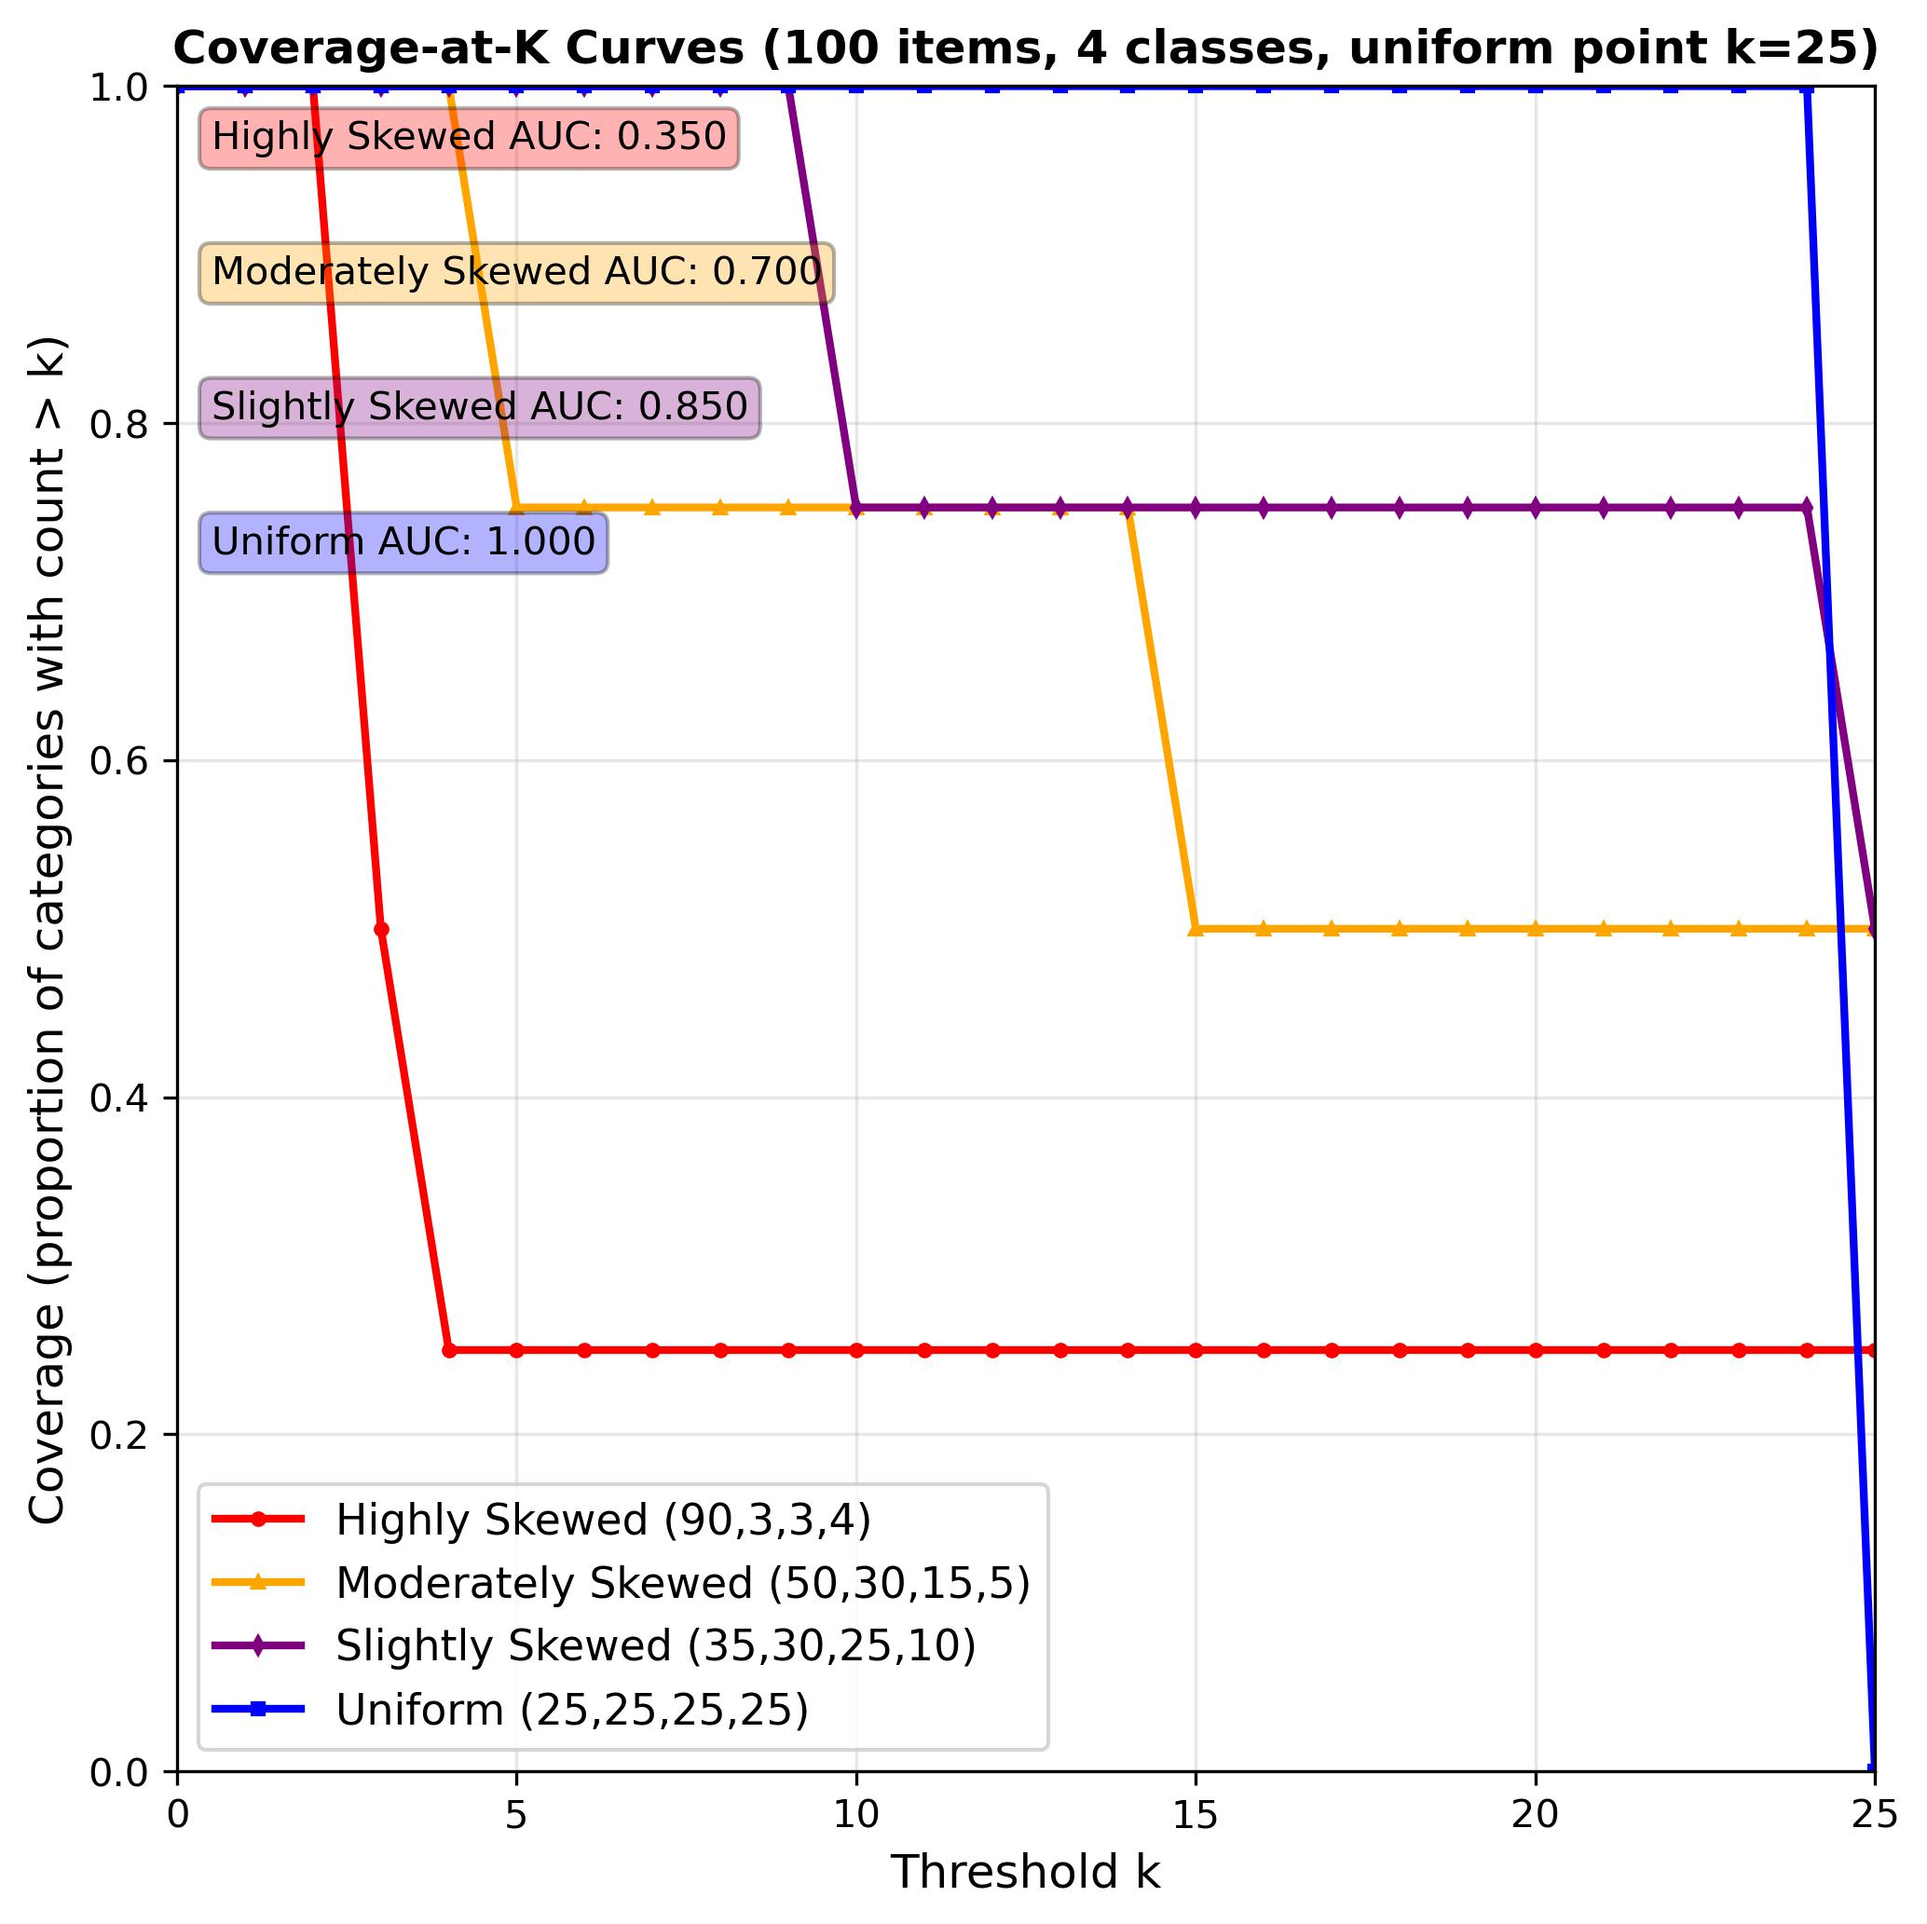
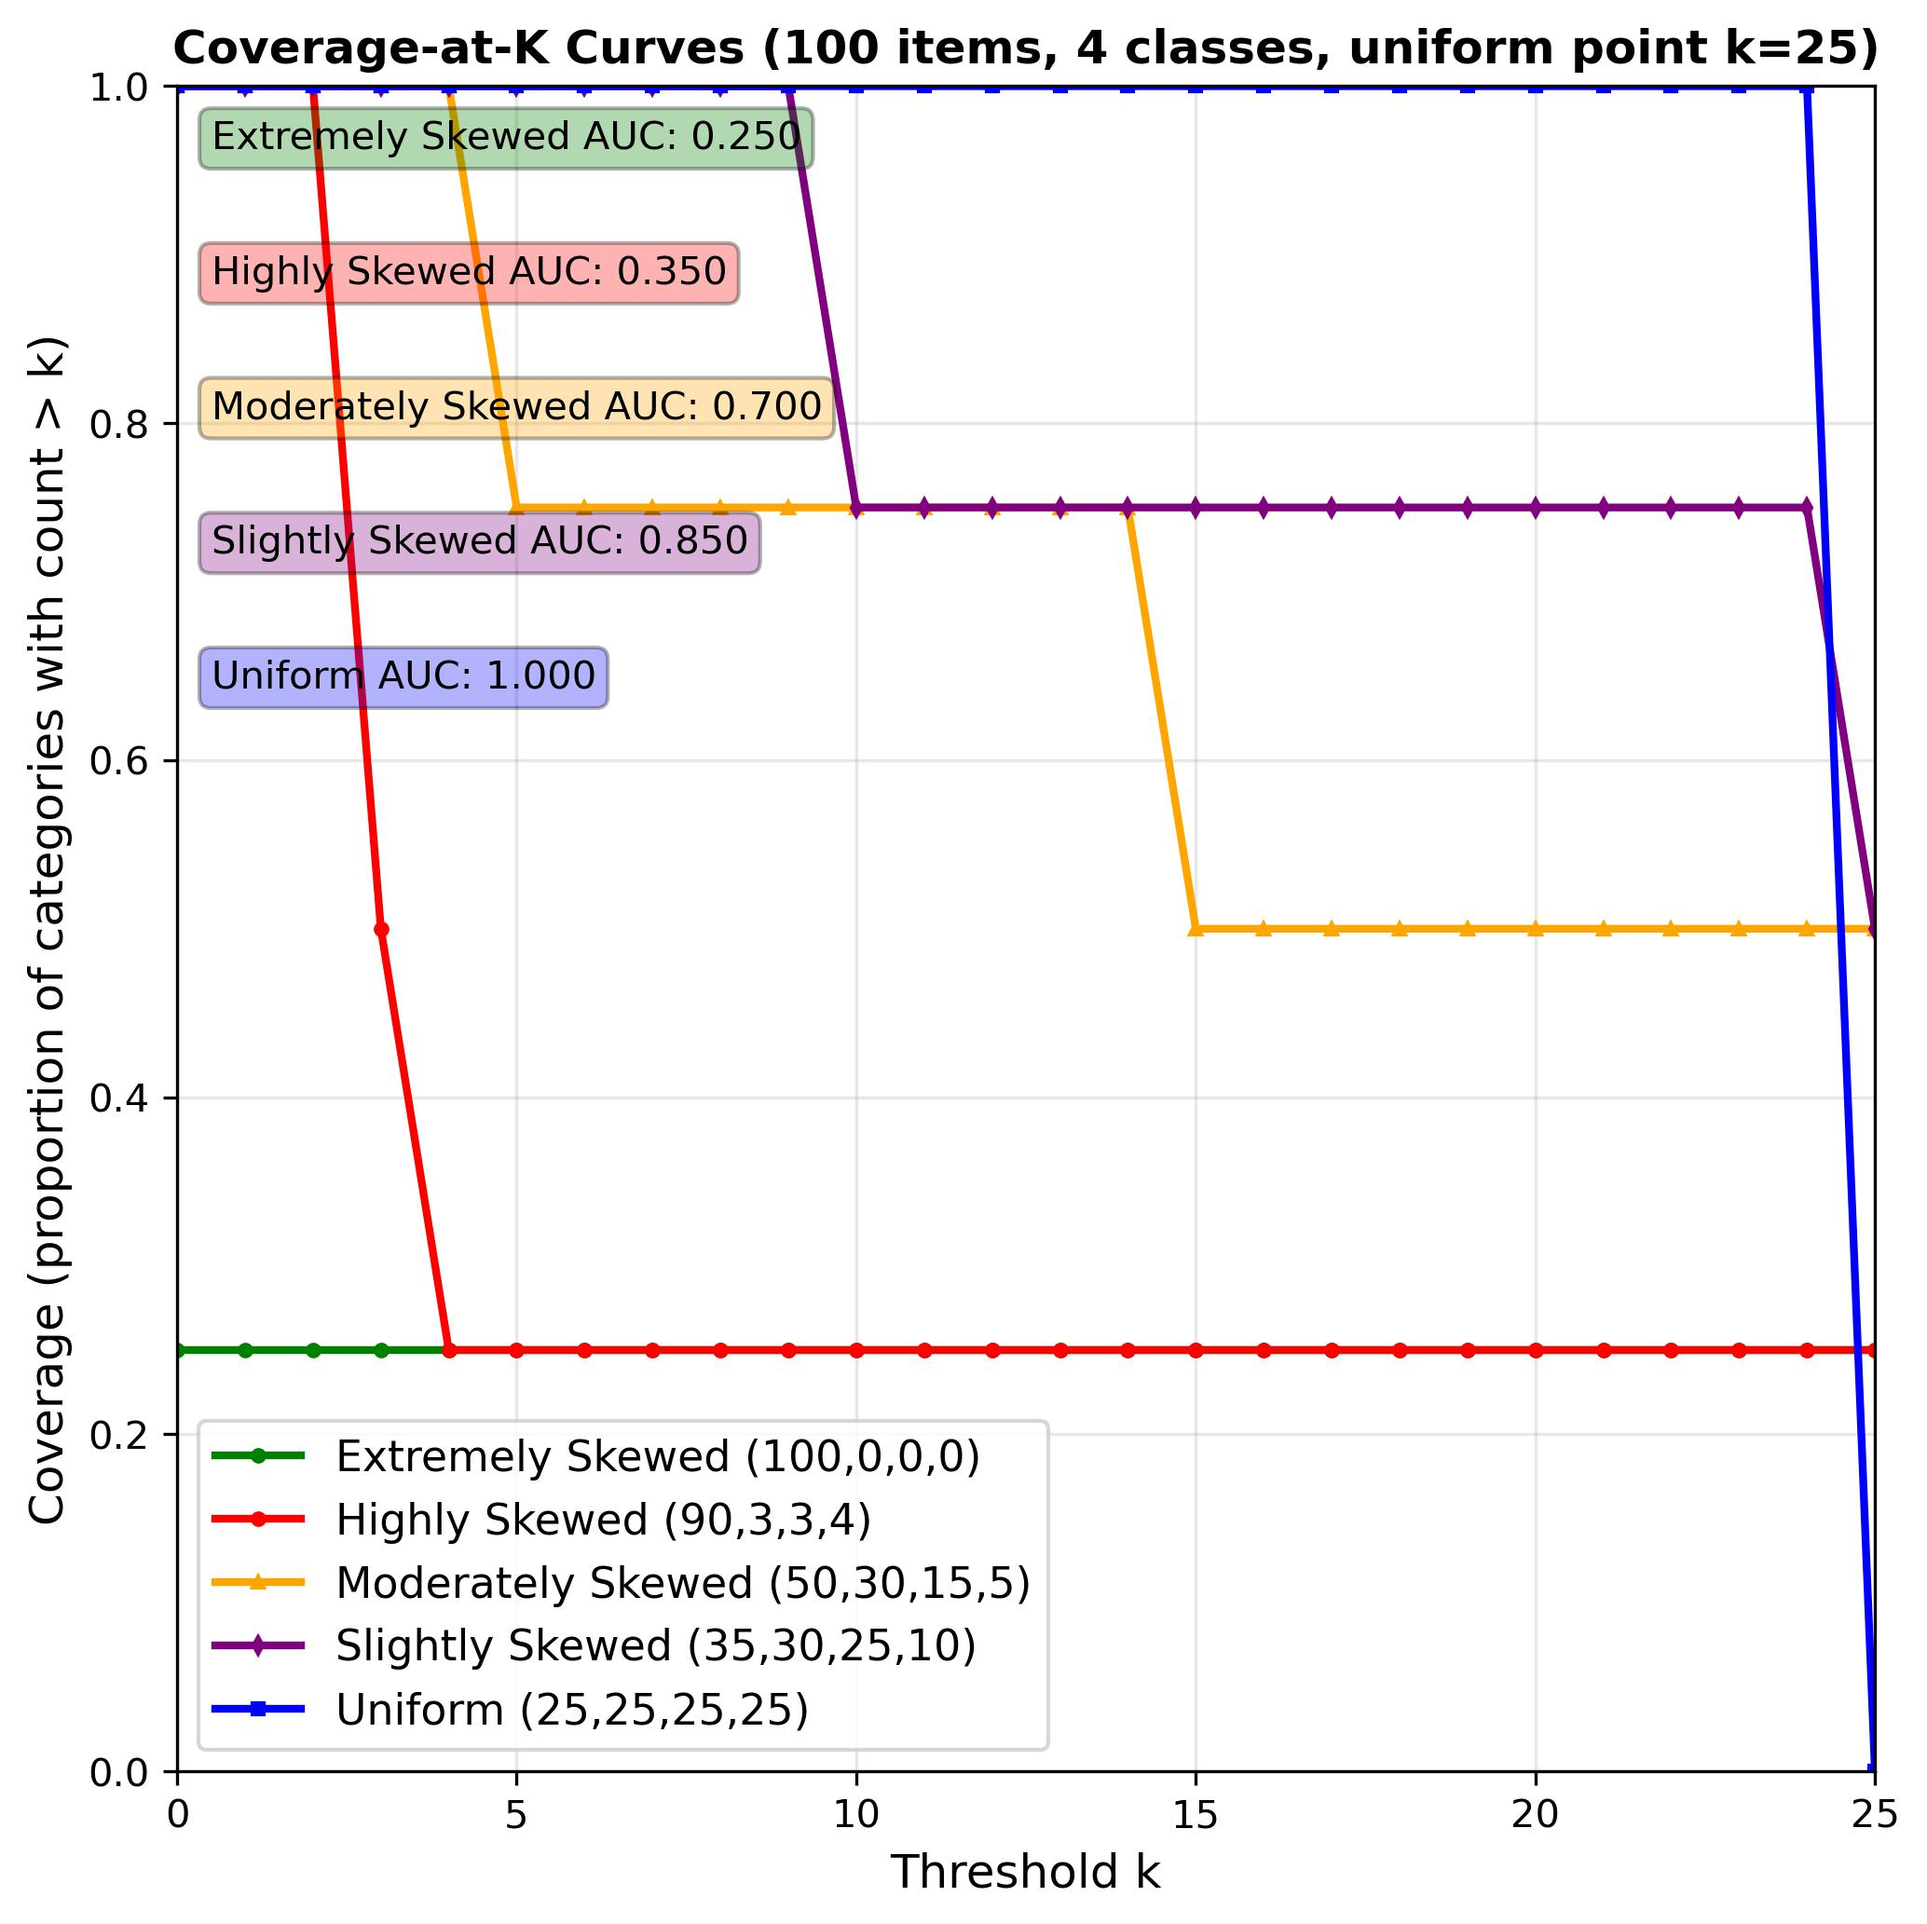
fixed the inequality

diff --git a/example_cq.py b/example_cq.py
@@ -35,11 +35,12 @@ def generate_coverage_curve(probs):
     return all_q_values, all_coverage_values
 
 
-def plot_coverage_at_q(probs_skewed, probs_skewed2, probs_skewed3, probs_uniform):
+def plot_coverage_at_q(probs_extreme, probs_skewed, probs_skewed2, probs_skewed3, probs_uniform):
     """
     Create a visualization comparing coverage-at-q curves for different distributions.
     """
     # Generate curve data
+    q_extreme, coverage_extreme = generate_coverage_curve(probs_extreme)
     q_skewed, coverage_skewed = generate_coverage_curve(probs_skewed)
     q_skewed2, coverage_skewed2 = generate_coverage_curve(probs_skewed2)
     q_skewed3, coverage_skewed3 = generate_coverage_curve(probs_skewed3)
@@ -49,6 +50,7 @@ def plot_coverage_at_q(probs_skewed, probs_skewed2, probs_skewed3, probs_uniform
     plt.figure(figsize=(7, 7))
     
     # Plot all curves
+    plt.plot(q_extreme, coverage_extreme, 'g-', linewidth=2, label='Extremely Skewed (100,0,0,0)', marker='o', markersize=3)
     plt.plot(q_skewed, coverage_skewed, 'r-', linewidth=2, label='Highly Skewed (90,3,3,4)', marker='o', markersize=3)
     plt.plot(q_skewed2, coverage_skewed2, 'orange', linewidth=2, label='Moderately Skewed (50,30,15,5)', marker='^', markersize=3)
     plt.plot(q_skewed3, coverage_skewed3, 'purple', linewidth=2, label='Slightly Skewed (35,30,25,10)', marker='d', markersize=3)
@@ -65,19 +67,22 @@ def plot_coverage_at_q(probs_skewed, probs_skewed2, probs_skewed3, probs_uniform
     plt.xlim(0, 1.0)
     plt.ylim(0, 1.0)
     
-    # Add AUC-C(Q) values as text
-    dfu_skewed = uniform_divergence_score(probs_skewed)
-    dfu_skewed2 = uniform_divergence_score(probs_skewed2)
-    dfu_skewed3 = uniform_divergence_score(probs_skewed3)
-    dfu_uniform = uniform_divergence_score(probs_uniform)
+    # Add AUC-C@Q values as text
+    dfu_extreme = 1.0-uniform_divergence_score(probs_extreme)
+    dfu_skewed = 1.0-uniform_divergence_score(probs_skewed)
+    dfu_skewed2 = 1.0-uniform_divergence_score(probs_skewed2)
+    dfu_skewed3 = 1.0-uniform_divergence_score(probs_skewed3)
+    dfu_uniform = 1.0-uniform_divergence_score(probs_uniform)
     
-    plt.text(0.02, 0.98, f'Highly Skewed UDS: {dfu_skewed:.3f}', transform=plt.gca().transAxes, 
+    plt.text(0.02, 0.98, f'Extremely Skewed UCS: {dfu_extreme:.3f}', transform=plt.gca().transAxes, 
+             verticalalignment='top', bbox=dict(boxstyle='round', facecolor='green', alpha=0.3))
+    plt.text(0.02, 0.90, f'Highly Skewed UCS: {dfu_skewed:.3f}', transform=plt.gca().transAxes, 
              verticalalignment='top', bbox=dict(boxstyle='round', facecolor='red', alpha=0.3))
-    plt.text(0.02, 0.90, f'Moderately Skewed UDS: {dfu_skewed2:.3f}', transform=plt.gca().transAxes, 
+    plt.text(0.02, 0.82, f'Moderately Skewed UCS: {dfu_skewed2:.3f}', transform=plt.gca().transAxes, 
              verticalalignment='top', bbox=dict(boxstyle='round', facecolor='orange', alpha=0.3))
-    plt.text(0.02, 0.82, f'Slightly Skewed UDS: {dfu_skewed3:.3f}', transform=plt.gca().transAxes, 
+    plt.text(0.02, 0.74, f'Slightly Skewed UCS: {dfu_skewed3:.3f}', transform=plt.gca().transAxes, 
              verticalalignment='top', bbox=dict(boxstyle='round', facecolor='purple', alpha=0.3))
-    plt.text(0.02, 0.74, f'Uniform UDS: {dfu_uniform:.3f}', transform=plt.gca().transAxes, 
+    plt.text(0.02, 0.66, f'Uniform UCS: {dfu_uniform:.3f}', transform=plt.gca().transAxes, 
              verticalalignment='top', bbox=dict(boxstyle='round', facecolor='blue', alpha=0.3))
     
     plt.gca().set_aspect('equal', adjustable='box')
@@ -90,13 +95,17 @@ def plot_coverage_at_q(probs_skewed, probs_skewed2, probs_skewed3, probs_uniform
 if __name__ == "__main__":
     # Example Usage:
     # Different types of skewed distributions (100 items, 4 classes)
+    counts_extreme = Counter({'a': 100, 'b': 0, 'c': 0, 'd': 0})      # Highly skewed
     counts_skewed = Counter({'a': 90, 'b': 3, 'c': 3, 'd': 4})      # Highly skewed
     counts_skewed2 = Counter({'a': 50, 'b': 30, 'c': 15, 'd': 5})   # Moderately skewed
     counts_skewed3 = Counter({'a': 35, 'b': 30, 'c': 25, 'd': 10})  # Slightly skewed
     # Perfect uniform distribution (100 items, 4 classes)
     counts_uniform = Counter({'a': 25, 'b': 25, 'c': 25, 'd': 25})
 
-    # Convert counts to probabilities for AUC-C(Q)
+    # Convert counts to probabilities for AUC-C@Q
+    total_extreme = sum(counts_extreme.values())
+    probs_extreme = {k: v / total_extreme for k, v in counts_extreme.items()}
+
     total_skewed = sum(counts_skewed.values())
     probs_skewed = {k: v / total_skewed for k, v in counts_skewed.items()}
 
@@ -109,22 +118,25 @@ if __name__ == "__main__":
     total_uniform = sum(counts_uniform.values())
     probs_uniform = {k: v / total_uniform for k, v in counts_uniform.items()}
 
+    print(f"--- Extremely Skewed Distribution (Total Items: {sum(counts_extreme.values())}) ---")
+    print(f"C(0): {coverage_at_q(counts_extreme, 0):.3f}")
+    print(f"UCS: {uniform_divergence_score(probs_extreme):.3f}\n")
     print(f"--- Highly Skewed Distribution (Total Items: {sum(counts_skewed.values())}) ---")
     print(f"C(0): {coverage_at_q(counts_skewed, 0):.3f}")
-    print(f"UDS: {uniform_divergence_score(probs_skewed):.3f}\n")
+    print(f"UCS: {uniform_divergence_score(probs_skewed):.3f}\n")
 
     print(f"--- Moderately Skewed Distribution (Total Items: {sum(counts_skewed2.values())}) ---")
     print(f"C(0): {coverage_at_q(counts_skewed2, 0):.3f}")
-    print(f"UDS: {uniform_divergence_score(probs_skewed2):.3f}\n")
+    print(f"UCS: {uniform_divergence_score(probs_skewed2):.3f}\n")
 
     print(f"--- Slightly Skewed Distribution (Total Items: {sum(counts_skewed3.values())}) ---")
     print(f"C(0): {coverage_at_q(counts_skewed3, 0):.3f}")
-    print(f"UDS: {uniform_divergence_score(probs_skewed3):.3f}\n")
+    print(f"UCS: {uniform_divergence_score(probs_skewed3):.3f}\n")
 
     print(f"--- Uniform Distribution (Total Items: {sum(counts_uniform.values())}) ---")
     print(f"C(0): {coverage_at_q(counts_uniform, 0):.3f}")
-    print(f"UDS: {uniform_divergence_score(probs_uniform):.3f}\n")
+    print(f"UCS: {uniform_divergence_score(probs_uniform):.3f}\n")
     
     # Create visualization
     print("Generating Coverage-at-Q visualization...")
-    plot_coverage_at_q(probs_skewed, probs_skewed2, probs_skewed3, probs_uniform)
+    plot_coverage_at_q(probs_extreme, probs_skewed, probs_skewed2, probs_skewed3, probs_uniform)

diff --git a/example_ck.py b/example_ck.py
@@ -25,11 +25,12 @@ def generate_coverage_curve(counts, total_possible, max_k=None):
     return k_values, coverage_values
 
 
-def plot_coverage_at_k(counts_skewed, counts_skewed2, counts_skewed3, counts_uniform, total_possible_cats):
+def plot_coverage_at_k(counts_extreme, counts_skewed, counts_skewed2, counts_skewed3, counts_uniform, total_possible_cats):
     """
     Create a visualization comparing coverage-at-k curves for different distributions.
     """
     # Generate curve data
+    k_extreme, coverage_extreme = generate_coverage_curve(counts_extreme, total_possible_cats)
     k_skewed, coverage_skewed = generate_coverage_curve(counts_skewed, total_possible_cats)
     k_skewed2, coverage_skewed2 = generate_coverage_curve(counts_skewed2, total_possible_cats)
     k_skewed3, coverage_skewed3 = generate_coverage_curve(counts_skewed3, total_possible_cats)
@@ -39,6 +40,7 @@ def plot_coverage_at_k(counts_skewed, counts_skewed2, counts_skewed3, counts_uni
     plt.figure(figsize=(7, 7))
     
     # Plot all curves
+    plt.plot(k_extreme, coverage_extreme, 'g-', linewidth=2, label='Extremely Skewed (100,0,0,0)', marker='o', markersize=3)
     plt.plot(k_skewed, coverage_skewed, 'r-', linewidth=2, label='Highly Skewed (90,3,3,4)', marker='o', markersize=3)
     plt.plot(k_skewed2, coverage_skewed2, 'orange', linewidth=2, label='Moderately Skewed (50,30,15,5)', marker='^', markersize=3)
     plt.plot(k_skewed3, coverage_skewed3, 'purple', linewidth=2, label='Slightly Skewed (35,30,25,10)', marker='d', markersize=3)
@@ -56,18 +58,21 @@ def plot_coverage_at_k(counts_skewed, counts_skewed2, counts_skewed3, counts_uni
     plt.ylim(0, 1.0)
     
     # Add AUC-C(K) values as text
+    auc_extreme = auc_catk(counts_extreme, total_possible_cats)
     auc_skewed = auc_catk(counts_skewed, total_possible_cats)
     auc_skewed2 = auc_catk(counts_skewed2, total_possible_cats)
     auc_skewed3 = auc_catk(counts_skewed3, total_possible_cats)
     auc_uniform = auc_catk(counts_uniform, total_possible_cats)
     
-    plt.text(0.02, 0.98, f'Highly Skewed AUC: {auc_skewed:.3f}', transform=plt.gca().transAxes, 
+    plt.text(0.02, 0.98, f'Extremely Skewed AUC: {auc_extreme:.3f}', transform=plt.gca().transAxes, 
+             verticalalignment='top', bbox=dict(boxstyle='round', facecolor='green', alpha=0.3))
+    plt.text(0.02, 0.90, f'Highly Skewed AUC: {auc_skewed:.3f}', transform=plt.gca().transAxes, 
              verticalalignment='top', bbox=dict(boxstyle='round', facecolor='red', alpha=0.3))
-    plt.text(0.02, 0.90, f'Moderately Skewed AUC: {auc_skewed2:.3f}', transform=plt.gca().transAxes, 
+    plt.text(0.02, 0.82, f'Moderately Skewed AUC: {auc_skewed2:.3f}', transform=plt.gca().transAxes, 
              verticalalignment='top', bbox=dict(boxstyle='round', facecolor='orange', alpha=0.3))
-    plt.text(0.02, 0.82, f'Slightly Skewed AUC: {auc_skewed3:.3f}', transform=plt.gca().transAxes, 
+    plt.text(0.02, 0.74, f'Slightly Skewed AUC: {auc_skewed3:.3f}', transform=plt.gca().transAxes, 
              verticalalignment='top', bbox=dict(boxstyle='round', facecolor='purple', alpha=0.3))
-    plt.text(0.02, 0.74, f'Uniform AUC: {auc_uniform:.3f}', transform=plt.gca().transAxes, 
+    plt.text(0.02, 0.66, f'Uniform AUC: {auc_uniform:.3f}', transform=plt.gca().transAxes, 
              verticalalignment='top', bbox=dict(boxstyle='round', facecolor='blue', alpha=0.3))
     
     plt.tight_layout()
@@ -79,12 +84,17 @@ def plot_coverage_at_k(counts_skewed, counts_skewed2, counts_skewed3, counts_uni
 if __name__ == "__main__":
     # Example Usage:
     # Different types of skewed distributions (100 items, 4 classes)
+    counts_extreme = Counter({'a': 100, 'b': 0, 'c': 0, 'd': 0})      # Highly skewed
     counts_skewed = Counter({'a': 90, 'b': 3, 'c': 3, 'd': 4})      # Highly skewed
     counts_skewed2 = Counter({'a': 50, 'b': 30, 'c': 15, 'd': 5})   # Moderately skewed
     counts_skewed3 = Counter({'a': 35, 'b': 30, 'c': 25, 'd': 10})  # Slightly skewed
     # Perfect uniform distribution (100 items, 4 classes)
     counts_uniform = Counter({'a': 25, 'b': 25, 'c': 25, 'd': 25})
     total_possible_cats = 4  # Only 4 possible classes
+
+    print(f"--- Extremely Skewed Distribution (Total Items: {sum(counts_extreme.values())}) ---")
+    print(f"C(0): {coverage_at_k(counts_extreme, 0, total_possible_cats):.3f}")
+    print(f"AUC-C(K): {auc_catk(counts_extreme, total_possible_cats):.3f}\n")
 
     print(f"--- Highly Skewed Distribution (Total Items: {sum(counts_skewed.values())}) ---")
     print(f"C(0): {coverage_at_k(counts_skewed, 0, total_possible_cats):.3f}")
@@ -104,4 +114,4 @@ if __name__ == "__main__":
     
     # Create visualization
     print("Generating Coverage-at-K visualization...")
-    plot_coverage_at_k(counts_skewed, counts_skewed2, counts_skewed3, counts_uniform, total_possible_cats)
+    plot_coverage_at_k(counts_extreme, counts_skewed, counts_skewed2, counts_skewed3, counts_uniform, total_possible_cats)

diff --git a/metrics.py b/metrics.py
@@ -82,7 +82,7 @@ def coverage_at_q(probs: dict, q: float) -> float:
     
     assert 0.0 <= q <= 1.0, "q must be in [0, 1]"
 
-    count_greater_equal_q = sum(1 for v in probs.values() if v >= q)
+    count_greater_equal_q = sum(1 for v in probs.values() if v > q)
     return count_greater_equal_q / len(probs)
 
 def deviation_from_uniform(probs: dict) -> float:
